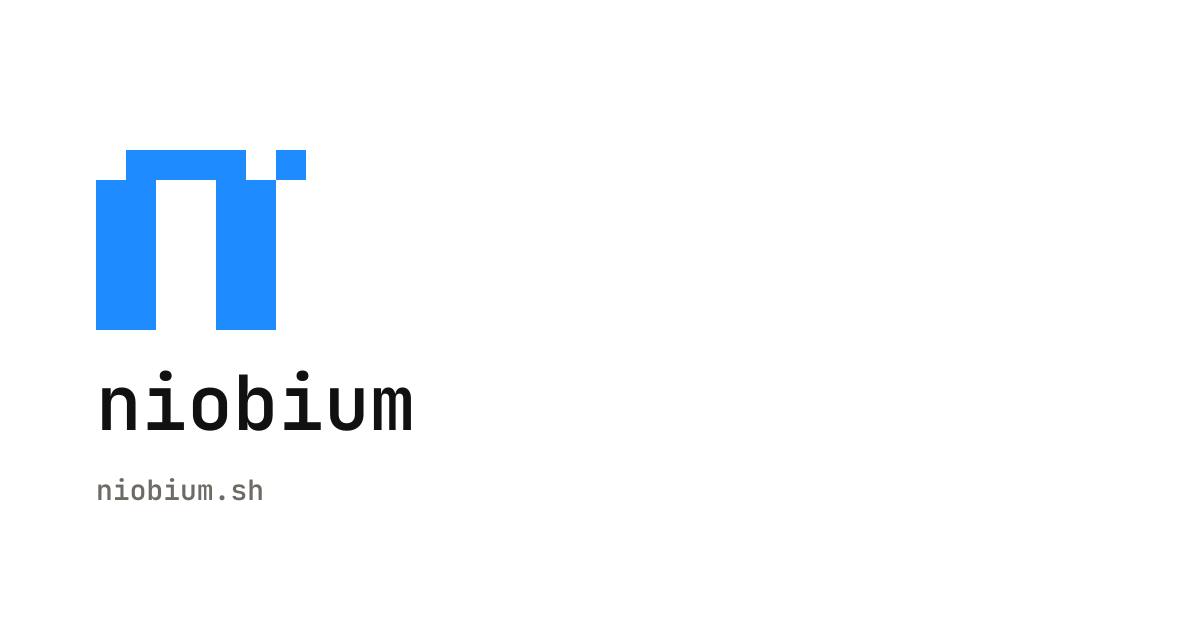
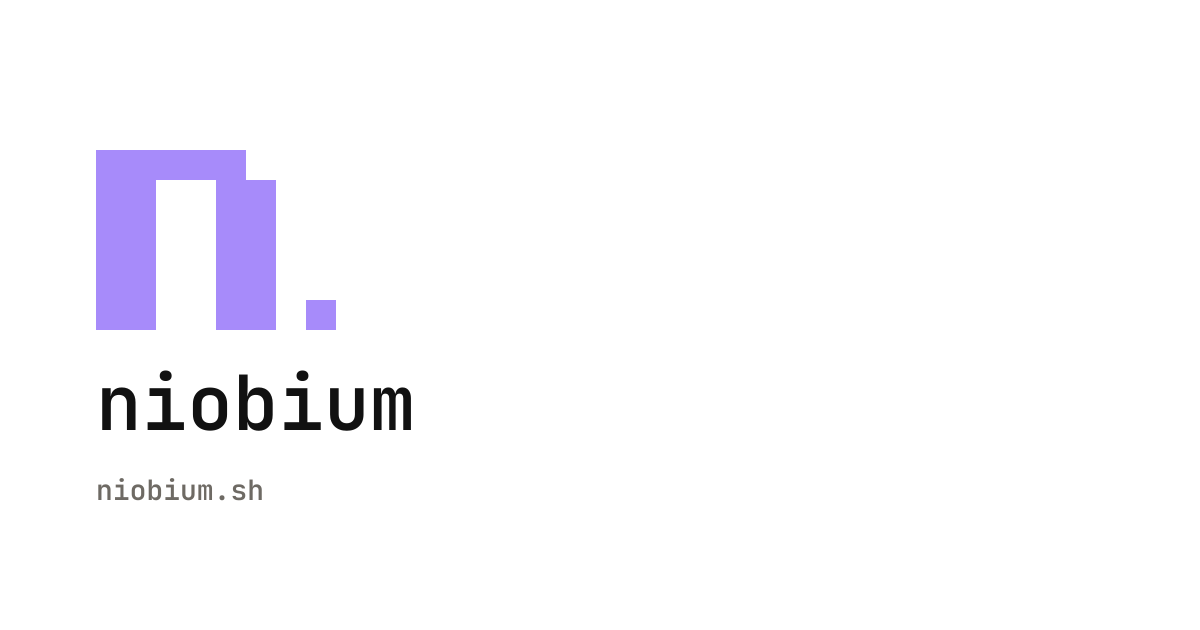
Niobium's signal is pastel purple #A78BFA

Changed region(s): [[0.0617, 0.2111, 0.2775, 0.5429]]

diff --git a/BRAND.md b/BRAND.md
@@ -18,7 +18,7 @@ version of the kit at `/brand/`; wckd.ai's home is the master kit.
 | Invincible | invincible.sh | AI gateway and decentralized compute | `i` | signal orange `#FF8A1E` |
 | Omnie | omnie.sh | An IDE for development on iOS and iPadOS | `o` | phthalo `#00B386` |
 | Nightfall | nightfall.sh | AI-native parametric CAD | `n` | rose `#FF3E8A` |
-| Niobium | niobium.sh | A pixel-art Hermes agent client for Android and iOS | `n.` (the n and its companion pixel) | niobium blue `#1E8CFF` |
+| Niobium | niobium.sh | A pixel-art Hermes agent client for Android and iOS | `n.` (the n and its companion pixel) | pastel purple `#A78BFA` |
 
 Each signal is one vivid color (high saturation, high brightness) used the same on white and on
 ink. Because it is that bright, **color is for marks, never for text**: the symbol, the
